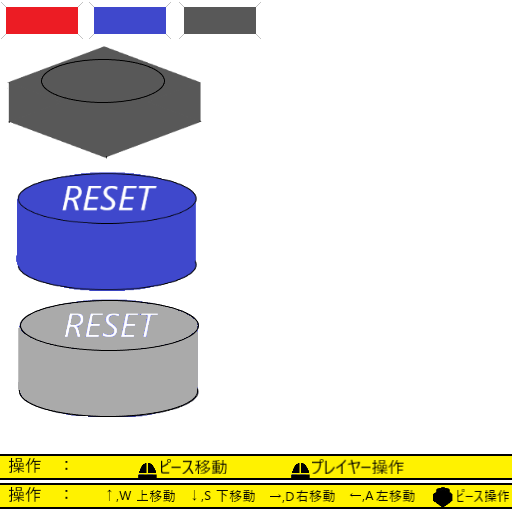
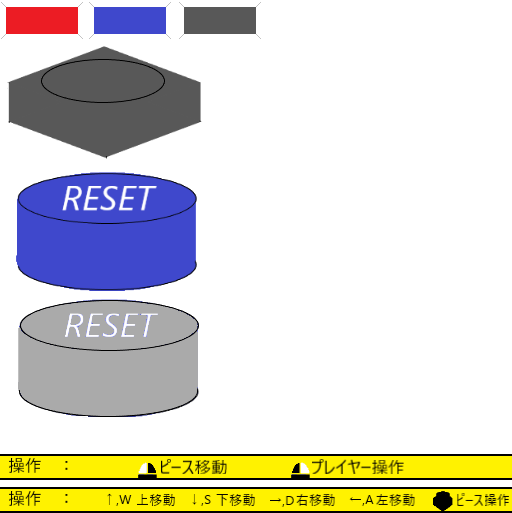
a

Changed region(s): [[0.0, 0.9045, 1.0, 1.0]]

diff --git a/pr/pr/ObjPlayer.cpp b/pr/pr/ObjPlayer.cpp
@@ -510,27 +510,56 @@ void CObjPlayer::Draw()
 
 	Draw::Draw(0, &src, &dst, c, 0.0f);
 
-	src.m_top = 0.0f;
-	src.m_left = 0.0f;
-	src.m_right = 45.0f;
-	src.m_bottom = 45.0f;
+	if (battle == false)
+	{
 
-	dst.m_top = 200.0f;
-	dst.m_left = 600.0f;
-	dst.m_right = 640.0f;
-	dst.m_bottom = 240.0f;
+		src.m_top = 0.0f;
+		src.m_left = 0.0f;
+		src.m_right = 45.0f;
+		src.m_bottom = 45.0f;
 
-	Draw::Draw(0, &src, &dst, c, 0.0f);
+		dst.m_top = 200.0f;
+		dst.m_left = 600.0f;
+		dst.m_right = 640.0f;
+		dst.m_bottom = 240.0f;
 
-	src.m_top = 130.0f;
-	src.m_left = 1.0f;
-	src.m_right = 51.0f;
-	src.m_bottom = 180.0f;
+		Draw::Draw(0, &src, &dst, c, 0.0f);
 
-	dst.m_top = 150.0f;
-	dst.m_left = 598.0f;
-	dst.m_right = 642.0f;
-	dst.m_bottom = 190.0f;
+		src.m_top = 130.0f;
+		src.m_left = 1.0f;
+		src.m_right = 51.0f;
+		src.m_bottom = 180.0f;
 
-	Draw::Draw(0, &src, &dst, c, 0.0f);
+		dst.m_top = 150.0f;
+		dst.m_left = 598.0f;
+		dst.m_right = 642.0f;
+		dst.m_bottom = 190.0f;
+
+		Draw::Draw(0, &src, &dst, c, 0.0f);
+	}
+
+	if (s_p == false)
+	{
+
+		src.m_top = 450.0f;
+		src.m_left = 0.0f;
+		src.m_right = 512.0f;
+		src.m_bottom = 480.0f;
+	}	
+
+	else
+	{
+		src.m_top = 482.0f;
+		src.m_left = 0.0f;
+		src.m_right = 512.0f;
+		src.m_bottom = 512.0f;
+	}
+
+	dst.m_top = 565.0f;
+	dst.m_left = 0.0f;
+	dst.m_right = 800.0f;
+	dst.m_bottom = 595.0f;
+
+	Draw::Draw(2, &src, &dst, c, 0.0f);
+
 }
